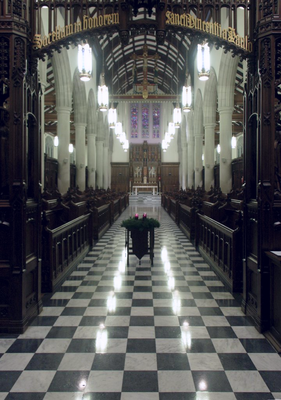
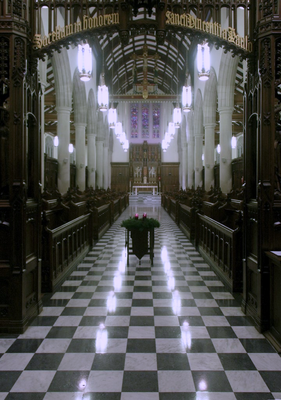
docs: update docs

diff --git a/docs/main.tex b/docs/main.tex
@@ -1,4 +1,4 @@
-% !TeX spellcheck = <none>
+% !TeX spellcheck = es_ES
 %%% main.tex %%%
 
 \documentclass[11pt]{article}
@@ -406,9 +406,31 @@
           \noindent
           Realiza una transformación perspectiva mapeando 4 puntos origen a 4 puntos destino seleccionados por el usuario.
 
+          \noindent
+          \begin{minipage}[t]{0.45\textwidth}
+              \begin{figure}[H]
+                  \centering
+                  \includegraphics[width=0.6\linewidth]{figures/pers_entrada}
+                  \caption{Imagen de entrada.}
+                  \label{fig:pers-entrada}
+              \end{figure}
+          \end{minipage}
+          \hfill
+          \noindent
+          \begin{minipage}[t]{0.45\textwidth}
+              \begin{figure}[H]
+                  \centering
+                  \includegraphics[width=0.6\linewidth]{figures/pers_salida}
+                  \caption{Imagen de salida.}
+                  \label{fig:pers-salida}
+              \end{figure}
+          \end{minipage}
+
       \subsubsection*{Convertir a escala de color}
           \noindent
           Convierte la imagen a escala de grises o a color según la opción seleccionada.
+
+          \clearpage
 
       \subsubsection*{Media ponderada de dos imágenes}
 
@@ -567,7 +589,27 @@
 
       \subsubsection*{Inpaint}
           \noindent
-          Aplica el algoritmo inpaint para borrar contenido de la imagen pintando sobre las zonas afectadas.
+          Aplica el algoritmo inpaint para borrar contenido de la imagen pintando sobre las zonas afectadas. Es de gran utilidad para editar imágenes de rostros con imperfectos como la presencia de acné:
+
+          \noindent
+          \begin{minipage}[t]{0.45\textwidth}
+              \begin{figure}[H]
+                  \centering
+                  \includegraphics[width=0.7\linewidth]{figures/inpaint-entrada}
+                  \caption{Imagen de entrada.}
+                  \label{fig:inpaint-entrada}
+              \end{figure}
+          \end{minipage}
+          \hfill
+          \noindent
+          \begin{minipage}[t]{0.45\textwidth}
+              \begin{figure}[H]
+                  \centering
+                  \includegraphics[width=0.7\linewidth]{figures/inpaint}
+                  \caption{Operación inpaint.}
+                  \label{fig:inpaint}
+              \end{figure}
+          \end{minipage}
 
           \clearpage
 
@@ -1377,8 +1419,8 @@
           borde. \cite{enwiki:1320845251} \\
 
           Sea \(f(x,y)\) la función de intensidad de la imagen original, el operador
-          Laplaciano, denotado como \(\nabla^2\), está definido como la suma de las segundas derivadas
-          parciales: \cite{opencv_laplaceoperator}
+          Laplaciano, denotado como \(\nabla^2\), está definido como la suma de las
+          segundas derivadas parciales: \cite{opencv_laplaceoperator}
 
           \[ \nabla^2 f(x,y) = \frac{\partial^2 f}{\partial x^2} + \frac{\partial^2 f}{\partial y^2} \]
 
@@ -1822,34 +1864,37 @@ void aplicar_mapa_color(int nfoto, int id_mapa, bool guardar) {
 
   \subsection{Suavizado (herramienta)}
 
-  \noindent
-  Esta funcionalidad implementa una herramienta de edición interactiva que permite al usuario aplicar filtros de suavizado sobre regiones específicas de la imagen. A diferencia de las operaciones globales de suavizado que afectan a toda la imagen, esta herramienta actúa como un pincel circular, difuminando únicamente el área donde el usuario hace clic con el ratón.
+      \noindent
+      Esta funcionalidad implementa una herramienta de edición interactiva que permite al usuario aplicar filtros de suavizado sobre regiones específicas de la imagen. A diferencia de las operaciones globales de suavizado que afectan a toda la imagen, esta herramienta actúa como un pincel circular, difuminando únicamente el área donde el usuario hace clic con el ratón.
 
-  \subsubsection{Introducción}
+      \subsubsection{Introducción}
 
-  \noindent
-  El suavizado local es fundamental en tareas de retoque fotográfico, permitiendo atenuar imperfecciones, suavizar la piel o eliminar ruido de la imagen. La operación se define por dos parámetros:
+          \noindent
+          El suavizado local es fundamental en tareas de retoque fotográfico, permitiendo atenuar imperfecciones, suavizar la piel o eliminar ruido de la imagen. La operación se define por dos parámetros:
 
-  \begin{itemize}
-      \item \textbf{Radio del Pincel (\(R\)):} Determina el tamaño de la zona afectada.
-      \item \textbf{Intensidad del Difuminado (\(K\)):} Define el tamaño del kernel de convolución aplicado dentro de la zona.
-  \end{itemize}
+          \begin{itemize}
+              \item \textbf{Radio del Pincel (\(R\)):} Determina el tamaño de la zona afectada.
+              \item \textbf{Intensidad del Difuminado (\(K\)):} Define el tamaño del kernel de convolución aplicado dentro de la zona.
+          \end{itemize}
 
-  Dado que las imágenes digitales y las Regiones de Interés (ROI) en OpenCV son inherentemente rectangulares, la aplicación de un efecto perfectamente circular requiere el uso de máscaras binarias para restringir la mezcla de la imagen procesada con la original.
+          Dado que las imágenes digitales y las Regiones de Interés (ROI) en OpenCV son
+          inherentemente rectangulares, la aplicación de un efecto perfectamente circular
+          requiere el uso de máscaras binarias para restringir la mezcla de la imagen
+          procesada con la original.
 
       \subsubsection{Implementación}
 
-      \noindent
-      Definimos una nueva herramienta en \texttt{imagenes.h}:
+          \noindent
+          Definimos una nueva herramienta en \texttt{imagenes.h}:
 
-      \begin{lstlisting}[style=CppQtStyle]
+          \begin{lstlisting}[style=CppQtStyle]
     enum tipo_herramienta {HER_PUNTO, ..., HER_SUAVIZADO};
 \end{lstlisting}
 
-\noindent
-Al igual que con el resto de herramientas, modificamos el callback de \texttt{imagenes.cpp} añadiendo un nuevo caso:
+          \noindent
+          Al igual que con el resto de herramientas, modificamos el callback de \texttt{imagenes.cpp} añadiendo un nuevo caso:
 
-\begin{lstlisting}[style=CppQtStyle]
+          \begin{lstlisting}[style=CppQtStyle]
     // 2.6. Herramienta SUAVIZADO
     case HER_SUAVIZADO:
         if (event == EVENT_LBUTTONDOWN)
@@ -1862,9 +1907,12 @@ Al igual que con el resto de herramientas, modificamos el callback de \texttt{im
         break;
 \end{lstlisting}
 
-    Para las funciones correspondientes \texttt{cb\_suavizar()} y \texttt{cb\_ver\_suavizado()}, nos inspiramos en las usadas por la herramienta punto para imitar el funcionamiento de un pincel y conseguir un comportamiento correcto en los bordes de la imagen.
+          Para las funciones correspondientes \texttt{cb\_suavizar()} y
+          \texttt{cb\_ver\_suavizado()}, nos inspiramos en las usadas por la herramienta
+          punto para imitar el funcionamiento de un pincel y conseguir un comportamiento
+          correcto en los bordes de la imagen.
 
-\begin{lstlisting}[style=CppQtStyle]
+          \begin{lstlisting}[style=CppQtStyle]
 void cb_suavizar (int factual, int x, int y) {
     Mat &im = foto[factual].img;
 
@@ -1887,12 +1935,13 @@ void cb_suavizar (int factual, int x, int y) {
 }
 \end{lstlisting}
 
-Para ver el código completo de estas dos funciones, se remite al anexo~\ref{sec:anexo-suavizado}.
+          Para ver el código completo de estas dos funciones, se remite al
+          anexo~\ref{sec:anexo-suavizado}.
 
       \subsubsection{Uso}
 
-      \noindent
-      Con esta nueva operación, se pueden lograr efectos de difuminado como el siguiente:
+          \noindent
+          Con esta nueva operación, se pueden lograr efectos de difuminado como el siguiente:
 
           \noindent
           \begin{minipage}[t]{0.45\textwidth}
@@ -2450,40 +2499,58 @@ Para ver el código completo de estas dos funciones, se remite al anexo~\ref{sec
 
 \section{Conclusiones y valoraciones personales}
 
-El desarrollo de QFotoPaint6 ha resultado muy satisfactorio tanto a nivel personal como a nivel académico. Como puntos positivos, cabe resaltar la estrecha relación con la teoría de la asignatura, pues es una de las prácticas que más útil ha resultado de cara al estudio. \\
+  El desarrollo de QFotoPaint6 ha resultado muy satisfactorio tanto a nivel
+  personal como a nivel académico. Como puntos positivos, cabe resaltar la
+  estrecha relación con la teoría de la asignatura, pues es una de las prácticas
+  que más útil ha resultado de cara al estudio. \\
 
-Respecto a las tecnologías usadas, como el entorno Qt en C++, es un acierto que los profesores proporcionen una base, pues ayuda a hacer énfasis en el verdadero objetivo de la asignatura, que no es ni mucho menos aprender a desarrollar aplicaciones de escritorio, sino a manipular imágenes. \\
+  Respecto a las tecnologías usadas, como el entorno Qt en C++, es un acierto que
+  los profesores proporcionen una base, pues ayuda a hacer énfasis en el
+  verdadero objetivo de la asignatura, que no es ni mucho menos aprender a
+  desarrollar aplicaciones de escritorio, sino a manipular imágenes. \\
 
-Por otro lado, OpenCV ha resultado ser una librería sencilla y con una curva de aprendizaje factible. La documentación es bastante completa y está muy bien redactada, con fuentes fiables, ejemplos y demostraciones matemáticas. Sin embargo, el nivel de abstracción es muy alto y, bajo mi punto de vista, encapsula mucha de la lógica que hubiese sido interesante aplicar, pues se ha aprendido durante las clases de teoría. \\
+  Por otro lado, OpenCV ha resultado ser una librería sencilla y con una curva de
+  aprendizaje factible. La documentación es bastante completa y está muy bien
+  redactada, con fuentes fiables, ejemplos y demostraciones matemáticas. Sin
+  embargo, el nivel de abstracción es muy alto y, bajo mi punto de vista,
+  encapsula mucha de la lógica que hubiese sido interesante aplicar, pues se ha
+  aprendido durante las clases de teoría. \\
 
-Dentro del desarrollo de la práctica, los aspectos menos llamativos han sido las implementaciones de las funciones de la barra de herramientas, pues no guardan mucha lógica respecto a la teoría de análisis de imágenes. Me hubiese gustado empezar antes con el desarrollo de los filtros y efectos. \\
+  Dentro del desarrollo de la práctica, los aspectos menos llamativos han sido
+  las implementaciones de las funciones de la barra de herramientas, pues no
+  guardan mucha lógica respecto a la teoría de análisis de imágenes. Me hubiese
+  gustado empezar antes con el desarrollo de los filtros y efectos. \\
 
-Cabe mencionar que para realizar la documentación, gran parte de las referencias y fórmulas matemáticas corresponden al libro de Rafel C.: \textit{Digital image processing}.
+  Cabe mencionar que para realizar la documentación, gran parte de las
+  referencias y fórmulas matemáticas corresponden al libro de Rafel C.:
+  \textit{Digital image processing}.
 
 \section{Bitácora}
 
-A continuación, se comenta la distribución del trabajo entre las clases prácticas presenciales y el trabajo autónomo. El control de horas es una aproximación cercana a la duración real de cada actividad.
+  A continuación, se comenta la distribución del trabajo entre las clases
+  prácticas presenciales y el trabajo autónomo. El control de horas es una
+  aproximación cercana a la duración real de cada actividad.
 
-\setlength{\tabcolsep}{15pt} % Espacio entre columnas
-\begin{table}[h]
-	\centering
-	\begin{tabular}{c c c}
-		\hline
-		\textbf{Actividad}     & \textbf{Presencial (prácticas)} & \textbf{Trabajo autónomo} \\
-		\hline
-		\textit{Análisis}      & 4                   & 5                       \\
-		\textit{Desarrollo}    & 14                   &  15                        \\
-		\textit{Documentación} & 0                   & 4                         \\
-		\hline
-		\textbf{Total}         & \textbf{18 horas}    & \textbf{24 horas}          \\
-		\hline \\
-	\end{tabular}
-	\caption{Distribución de horas entre actividades presenciales y trabajo
-		autónomo.}
-	\label{tab:distribucion-horas}
-\end{table}
+  \setlength{\tabcolsep}{15pt} % Espacio entre columnas
+  \begin{table}[h]
+      \centering
+      \begin{tabular}{c c c}
+          \hline
+          \textbf{Actividad}     & \textbf{Presencial (prácticas)} & \textbf{Trabajo autónomo} \\
+          \hline
+          \textit{Análisis}      & 4                               & 5                         \\
+          \textit{Desarrollo}    & 14                              & 15                        \\
+          \textit{Documentación} & 0                               & 4                         \\
+          \hline
+          \textbf{Total}         & \textbf{18 horas}               & \textbf{24 horas}         \\
+          \hline                                                                               \\
+      \end{tabular}
+      \caption{Distribución de horas entre actividades presenciales y trabajo
+          autónomo.}
+      \label{tab:distribucion-horas}
+  \end{table}
 
-\clearpage
+  \clearpage
 
   \bibliographystyle{unsrt}
   \bibliography{bibliography}
@@ -2654,14 +2721,14 @@ A continuación, se comenta la distribución del trabajo entre las clases práct
                             }
                         \end{lstlisting}
 
-                       \clearpage
+      \clearpage
 
   \subsection{Código de la implementación de la herramienta suavizado}
       \label{sec:anexo-suavizado}
 
-\subsubsection{Código de la implementación de cb\_suavizar()}
+      \subsubsection{Código de la implementación de cb\_suavizar()}
 
-   \begin{lstlisting}[style=CppQtStyle, caption={Código de la implementación de \texttt{cb\_suavizar()}.}]
+          \begin{lstlisting}[style=CppQtStyle, caption={Código de la implementación de \texttt{cb\_suavizar()}.}]
 void cb_suavizar (int factual, int x, int y)
 {
     Mat &im = foto[factual].img;
@@ -2706,11 +2773,11 @@ void cb_suavizar (int factual, int x, int y)
 }
 \end{lstlisting}
 
-\clearpage
+          \clearpage
 
-  \subsubsection{Código de la implementación de cb\_ver\_suavizado()}
+      \subsubsection{Código de la implementación de cb\_ver\_suavizado()}
 
-   \begin{lstlisting}[style=CppQtStyle, caption={Código de la implementación de \texttt{cb\_ver\_suavizado()}.}]
+          \begin{lstlisting}[style=CppQtStyle, caption={Código de la implementación de \texttt{cb\_ver\_suavizado()}.}]
 void cb_ver_suavizado (int factual, int x, int y)
 {
     Mat res = foto[factual].img.clone();